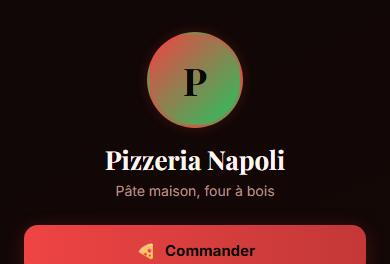
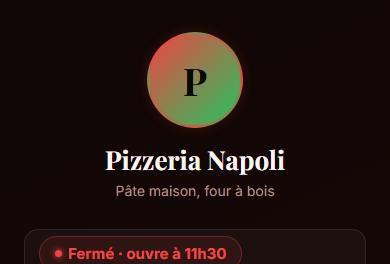
v297 — Horaires en bandeau « Ouvert · ferme à 23h » ; les commerces de nuit ne s'affichent plus « Fermé » en plein service
- Bug en ligne corrigé : une plage qui traverse minuit (« 18h - 02h »,
  « 11h - 00h ») était JETÉE par parseHourRanges. Un bar ouvert le soir
  s'affichait « Fermé » toute la soirée ; un kebab « 11h - 00h », toute la
  journée. La fin passe au lendemain (+24 h), la nuit d'hier se prolonge ce
  matin (« ouvert, ferme à 2h » à 1 h), « ferme à minuit » au lieu de « 0h ».
  Six cas ajoutés (types.test), l'ancien test qui figeait la règle réécrit.
- Bloc Horaires : réglage « Affichage » → « Bandeau compact » : le statut en
  grand, le tableau replié dessous (<details> natif, clavier, sans JS).
  Mêmes horaires que le tableau : une seule saisie, rien qui diverge.
- Les 4 modèles fast-food posent ce bandeau sous le nom du commerce
  (vignettes /examples régénérées). e2e/horairesEnBandeau.spec.ts.

Changed region(s): [[0.0615, 0.8485, 0.9538, 1.0]]

diff --git a/apps/web/src/app/dashboard/builder/shared-renderer/blocks/opening_hours/index.tsx b/apps/web/src/app/dashboard/builder/shared-renderer/blocks/opening_hours/index.tsx
@@ -19,7 +19,7 @@ import { sz, editorCtx, publicCtx, type UnifiedCtx, type EditorAdapterProps, typ
 
 /** Le badge « Ouvert / Fermé ». L'heure ne se lit qu'APRES le montage : le
  *  serveur rend la page puis la met en cache, son heure serait fausse. */
-function Badge({ u, c }: { u: UnifiedCtx; c: Record<string, any> }) {
+function Badge({ u, c, grand }: { u: UnifiedCtx; c: Record<string, any>; grand?: boolean }) {
   const [st, setSt] = useState<ReturnType<typeof openStatus>>(null)
   const [ailleurs, setAilleurs] = useState(false)
   const fuseau = fuseauDuBloc(c)
@@ -36,14 +36,14 @@ function Badge({ u, c }: { u: UnifiedCtx; c: Record<string, any> }) {
   }, [c.mon_fri, c.saturday, c.sunday, c.mon, c.tue, c.wed, c.thu, c.fri, c.sat, c.sun, c.mode, fuseau])
   if (!st) return null
   return (
-    <span style={{ display: "inline-flex", alignItems: "center", gap: sz(u, 6), background: `${st.color}18`, border: `1px solid ${u.lisible(st.color, 3)}55`, color: u.lisible(st.color), borderRadius: 20, padding: `${sz(u, 4)}px ${sz(u, 12)}px`, fontSize: sz(u, 12), fontWeight: 700, fontFamily: u.FONT_B }}>
+    <span data-statut-ouverture={st.open ? "ouvert" : "ferme"} style={{ display: "inline-flex", alignItems: "center", gap: sz(u, 6), background: `${st.color}18`, border: `1px solid ${u.lisible(st.color, 3)}55`, color: u.lisible(st.color), borderRadius: 20, padding: `${sz(u, grand ? 7 : 4)}px ${sz(u, grand ? 15 : 12)}px`, fontSize: sz(u, grand ? 15 : 12), fontWeight: 700, fontFamily: u.FONT_B }}>
       <span style={{ width: sz(u, 7), height: sz(u, 7), borderRadius: "50%", background: u.lisible(st.color, 3), boxShadow: `0 0 6px ${st.color}` }} />{st.label}
       {ailleurs && <span style={{ fontWeight: 500, opacity: 0.85 }}>· {mentionFuseau(fuseau)}</span>}
     </span>
   )
 }
 
-function Vue({ u, c }: { u: UnifiedCtx; c: Record<string, any> }) {
+function Vue({ u, c, sansEntete }: { u: UnifiedCtx; c: Record<string, any>; sansEntete?: boolean }) {
   const h = horaires(c)!
   // -1 tant que l'heure n'est pas connue : le serveur et le navigateur rendent
   // alors le meme HTML (pas de remplacement complet a l'hydratation).
@@ -64,11 +64,13 @@ function Vue({ u, c }: { u: UnifiedCtx; c: Record<string, any> }) {
     </div>
   )
   return (
-    <div style={{ padding: `${sz(u, 6)}px ${sz(u, 24)}px ${sz(u, 16)}px`, fontFamily: u.FONT_B }}>
-      <div style={{ display: "flex", alignItems: "center", justifyContent: "space-between", gap: sz(u, 10), margin: `0 0 ${sz(u, 10)}px`, flexWrap: "wrap" }}>
-        {h.titre ? <h2 style={{ color: u.MUTED, fontSize: sz(u, 11), textTransform: "uppercase", letterSpacing: 2, margin: 0, fontFamily: u.FONT_B }}>{h.titre}</h2> : <span />}
-        <Badge u={u} c={c} />
-      </div>
+    <div style={{ padding: sansEntete ? `${sz(u, 10)}px 0 0` : `${sz(u, 6)}px ${sz(u, 24)}px ${sz(u, 16)}px`, fontFamily: u.FONT_B }}>
+      {!sansEntete && (
+        <div style={{ display: "flex", alignItems: "center", justifyContent: "space-between", gap: sz(u, 10), margin: `0 0 ${sz(u, 10)}px`, flexWrap: "wrap" }}>
+          {h.titre ? <h2 style={{ color: u.MUTED, fontSize: sz(u, 11), textTransform: "uppercase", letterSpacing: 2, margin: 0, fontFamily: u.FONT_B }}>{h.titre}</h2> : <span />}
+          <Badge u={u} c={c} />
+        </div>
+      )}
       {exception && (
         <div style={{ display: "flex", alignItems: "center", gap: sz(u, 8), background: "rgba(251,191,36,0.08)", border: "1px solid rgba(251,191,36,0.3)", borderRadius: 11, padding: `${sz(u, 10)}px ${sz(u, 13)}px`, marginBottom: sz(u, 10) }}>
           <span style={{ fontSize: sz(u, 16), flexShrink: 0 }}>📅</span>
@@ -95,12 +97,34 @@ function Vue({ u, c }: { u: UnifiedCtx; c: Record<string, any> }) {
   )
 }
 
+/**
+ * Le bandeau compact (lot fast-food 2, 19 nov.) : le statut en GRAND, en haut de
+ * page, et le tableau replié dessous. Les MÊMES horaires que le tableau — une
+ * seule saisie, rien qui puisse diverger. `<details>` natif : il se déplie au
+ * clavier et avant même que le JavaScript n'arrive.
+ */
+function Bandeau({ u, c }: { u: UnifiedCtx; c: Record<string, any> }) {
+  return (
+    <div style={{ padding: `${sz(u, 10)}px ${sz(u, 24)}px ${sz(u, 12)}px`, fontFamily: u.FONT_B }}>
+      <details data-horaires-bandeau="" style={{ background: u.FILL, border: `1px solid ${u.LINE}`, borderRadius: 14, padding: `${sz(u, 6)}px ${sz(u, 14)}px` }}>
+        <summary style={{ display: "flex", alignItems: "center", justifyContent: "space-between", gap: sz(u, 10), minHeight: 44, cursor: "pointer", listStyle: "none", flexWrap: "wrap" }}>
+          <Badge u={u} c={c} grand />
+          <span style={{ color: u.MUTED, fontSize: sz(u, 13), fontWeight: 600 }}>{horaires(c)?.titre || "Horaires de la semaine"} ▾</span>
+        </summary>
+        <Vue u={u} c={c} sansEntete />
+      </details>
+    </div>
+  )
+}
+const enBandeau = (c: Record<string, any>) => String(c.affichage || "") === "Bandeau compact"
+
 export function EditorOpeningHours({ content, ctx }: EditorAdapterProps) {
   const u = editorCtx(ctx)
   if (!horaires(content)) return <div style={{ padding: "10px 16px" }}><BlockEmptyState icon="🕐" label="Saisissez vos horaires" sub={HIDDEN_WHEN_EMPTY_NOTE} muted={u.MUTED} /></div>
-  return <Vue u={u} c={content} />
+  return enBandeau(content) ? <Bandeau u={u} c={content} /> : <Vue u={u} c={content} />
 }
 export function PublicOpeningHours({ content, ctx }: PublicAdapterProps) {
   if (!horaires(content)) return null
-  return <Vue u={publicCtx(ctx)} c={content} />
+  const u = publicCtx(ctx)
+  return enBandeau(content) ? <Bandeau u={u} c={content} /> : <Vue u={u} c={content} />
 }

diff --git a/apps/web/src/app/dashboard/builder/page-templates.ts b/apps/web/src/app/dashboard/builder/page-templates.ts
@@ -103,6 +103,14 @@ const CARTE_PIZZA = carte([
   { nom: "Limonade artisanale", prix: "3,50 €", cat: "Boissons" },
 ])
 
+// Horaires des modèles fast-food : en BANDEAU sous le nom (lot fast-food 2) —
+// « Ouvert · ferme à 23:00 » est la première chose qu'on cherche en scannant.
+const bandeau = (h: Record<string, string>) => ({ title: "Horaires de la semaine", affichage: "Bandeau compact", ...h })
+const HORAIRES_RESTO_FASTFOOD = bandeau({ mon_fri: "11h30 - 23h", saturday: "11h30 - 00h", sunday: "18h - 23h" })
+const HORAIRES_RESTO_KEBAB = bandeau({ mon_fri: "11h - 00h", saturday: "11h - 01h", sunday: "12h - 00h" })
+const HORAIRES_RESTO_TACOS = bandeau({ mon_fri: "11h30 - 23h30", saturday: "11h30 - 01h", sunday: "18h - 23h30" })
+const HORAIRES_RESTO_PIZZA = bandeau({ mon_fri: "11h30 - 14h, 18h30 - 22h30", saturday: "18h30 - 23h", sunday: "18h30 - 22h30" })
+
 const PAGE_TEMPLATES_ECRITS: PageTemplate[] = [
   // ── Restauration ────────────────────────────────────────────────────────────
   {
@@ -131,10 +139,10 @@ const PAGE_TEMPLATES_ECRITS: PageTemplate[] = [
     theme: T.neon,
     blocks: [
       { type: "profile", content: { name: "Big Bite", tagline: "Burgers smashés & frites maison", badge: "" } },
+      { type: "opening_hours", content: HORAIRES_RESTO_FASTFOOD },
       { type: "announcement", content: { type: "Promo", title: "Menu du midi -20%", message: "Du lundi au vendredi, de 11h30 à 14h.", style: "Détaillé" } },
       { type: "cta_button", content: { label: "Commander en ligne", url: "#", style: "gold", icon: "🛵", full_width: "yes" } },
       { type: "carte_illustree", content: CARTE_BURGER },
-      { type: "opening_hours", content: { title: "Horaires", mon_fri: "11h30 - 23h", saturday: "11h30 - 00h", sunday: "18h - 23h" } },
       { type: "google_maps_embed", content: { label: "Big Bite", address: "", zoom: "16" } },
       { type: "social_links", content: social({ tiktok: "https://tiktok.com" }) },
     ],
@@ -146,9 +154,9 @@ const PAGE_TEMPLATES_ECRITS: PageTemplate[] = [
     theme: T.braise,
     blocks: [
       { type: "profile", content: { name: "Le Bosphore", tagline: "Kebab, assiettes & tacos · fait maison", badge: "" } },
+      { type: "opening_hours", content: HORAIRES_RESTO_KEBAB },
       { type: "cta_button", content: { label: "Commander à emporter", url: "", style: "gold", icon: "🥙", full_width: "yes" } },
       { type: "carte_illustree", content: CARTE_KEBAB },
-      { type: "opening_hours", content: { title: "Horaires", mon_fri: "11h - 00h", saturday: "11h - 01h", sunday: "12h - 00h" } },
       { type: "google_maps_embed", content: { label: "Le Bosphore", address: "", zoom: "16" } },
       { type: "social_links", content: social({ tiktok: "https://tiktok.com" }) },
     ],
@@ -159,9 +167,9 @@ const PAGE_TEMPLATES_ECRITS: PageTemplate[] = [
     theme: T.mexico,
     blocks: [
       { type: "profile", content: { name: "Tacos Factory", tagline: "Tacos français, wraps & bowls", badge: "" } },
+      { type: "opening_hours", content: HORAIRES_RESTO_TACOS },
       { type: "announcement", content: { type: "Promo", title: "Menu étudiant", message: "Tacos M + boisson à prix doux, sur présentation de la carte.", style: "Compact" } },
       { type: "carte_illustree", content: CARTE_TACOS },
-      { type: "opening_hours", content: { title: "Horaires", mon_fri: "11h30 - 23h30", saturday: "11h30 - 01h", sunday: "18h - 23h30" } },
       { type: "google_maps_embed", content: { label: "Tacos Factory", address: "", zoom: "16" } },
       { type: "social_links", content: social({ tiktok: "https://tiktok.com" }) },
     ],
@@ -172,9 +180,9 @@ const PAGE_TEMPLATES_ECRITS: PageTemplate[] = [
     theme: T.tomate,
     blocks: [
       { type: "profile", content: { name: "Pizzeria Napoli", tagline: "Pâte maison, four à bois", badge: "" } },
+      { type: "opening_hours", content: HORAIRES_RESTO_PIZZA },
       { type: "cta_button", content: { label: "Commander", url: "", style: "gold", icon: "🍕", full_width: "yes" } },
       { type: "carte_illustree", content: CARTE_PIZZA },
-      { type: "opening_hours", content: { title: "Horaires", mon_fri: "11h30 - 14h, 18h30 - 22h30", saturday: "18h30 - 23h", sunday: "18h30 - 22h30" } },
       { type: "google_maps_embed", content: { label: "Pizzeria Napoli", address: "", zoom: "16" } },
       { type: "social_links", content: social({ facebook: "https://facebook.com" }) },
     ],

diff --git a/apps/web/src/app/dashboard/builder/types.ts b/apps/web/src/app/dashboard/builder/types.ts
@@ -731,7 +731,10 @@ function parseTime(raw: string): number | null {
 }
 
 // Parse un champ jour ("9h - 18h", "9h-12h, 14h-18h", "Ferme") en plages {start,end} (minutes).
-// Gere plusieurs plages (coupure) et separateurs -,–,à,to ; end<=start (nuit) -> +24h ignore ici.
+// Gere plusieurs plages (coupure) et separateurs -,–,à,to.
+// Une plage qui TRAVERSE MINUIT (« 18h - 02h », « 11h - 00h ») finit le lendemain :
+// sa fin vaut fin + 24 h. Elle était jetée jusqu'au 19 nov. — un bar ouvert
+// « 18h - 02h » s'affichait « Fermé » toute la soirée, en plein service.
 export function parseHourRanges(text?: string): { start: number; end: number }[] {
   const s = (text || "").trim()
   if (!s || /(ferm|closed|repos)/i.test(s)) return []
@@ -740,8 +743,8 @@ export function parseHourRanges(text?: string): { start: number; end: number }[]
     const seg = part.split(/\s*(?:-|–|—|à|to)\s*/i)
     if (seg.length < 2) continue
     const start = parseTime(seg[0]), end = parseTime(seg[1])
-    if (start === null || end === null || end <= start) continue
-    ranges.push({ start, end })
+    if (start === null || end === null || end === start) continue
+    ranges.push({ start, end: end < start ? end + 1440 : end })
   }
   return ranges
 }
@@ -784,15 +787,22 @@ export function openStatus(
   const conges = etatDesConges(c.exception, dateChezLeCommerce(now, tz))
   if (conges.etat === "pendant") return { open: false, label: phrasePendantConges(conges), color: "#FBBF24" }
   const day = ici.jour // 0=dim, 6=sam
-  const field = dayField(c, day)
-  if (!field || !field.trim()) return null // pas d'info pour aujourd'hui -> pas de badge
+  const field = dayField(c, day) ?? ""
+  // Pas d'info pour aujourd'hui -> pas de badge… sauf si la nuit d'hier court encore.
+  const veilleDeNuit = parseHourRanges(dayField(c, (day + 6) % 7)).some(r => r.end > 1440)
+  if (!field.trim() && !veilleDeNuit) return null
   const ranges = parseHourRanges(field)
   const mins = ici.minutes
 
-  const current = ranges.find(r => mins >= r.start && mins < r.end)
+  // La nuit d'HIER se prolonge ce matin : « 18h - 02h » le mardi ouvre encore
+  // le mercredi de 0 h à 2 h. Ces plages-là se comptent avant celles du jour.
+  const prolongees = parseHourRanges(dayField(c, (day + 6) % 7))
+    .filter(r => r.end > 1440).map(r => ({ start: 0, end: r.end - 1440 }))
+  const heure = (m: number) => (m % 1440 === 0 ? "minuit" : fmtMinutes(m % 1440))
+  const current = [...prolongees, ...ranges].find(r => mins >= r.start && mins < r.end)
   if (current) {
-    if (current.end - mins <= 30) return { open: true, label: `Ferme bientôt · à ${fmtMinutes(current.end)}`, color: "#FBBF24" }
-    return { open: true, label: `Ouvert · ferme à ${fmtMinutes(current.end)}`, color: "#39FF8F" }
+    if (current.end - mins <= 30) return { open: true, label: `Ferme bientôt · à ${heure(current.end)}`, color: "#FBBF24" }
+    return { open: true, label: `Ouvert · ferme à ${heure(current.end)}`, color: "#39FF8F" }
   }
   // Fermé : prochaine ouverture aujourd'hui ?
   const next = ranges.filter(r => r.start > mins).sort((a, b) => a.start - b.start)[0]

diff --git a/apps/web/src/app/dashboard/builder/types.test.ts b/apps/web/src/app/dashboard/builder/types.test.ts
@@ -821,8 +821,42 @@ describe("parseHourRanges", () => {
     expect(parseHourRanges("")).toEqual([])
     expect(parseHourRanges(undefined)).toEqual([])
   })
-  it("plage invalide (fin <= debut) ignoree", () => {
-    expect(parseHourRanges("18h - 9h")).toEqual([])
+  it("plage de nuit : la fin passe au lendemain ; une plage vide est ignorée", () => {
+    // Une plage qui traverse minuit finit le lendemain (19 nov. : elle était
+    // jetée, et un bar « 18h - 02h » s'affichait « Fermé » en plein service).
+    expect(parseHourRanges("18h - 9h")).toEqual([{ start: 1080, end: 1440 + 540 }])
+    expect(parseHourRanges("11h - 00h")).toEqual([{ start: 660, end: 1440 }])
+    expect(parseHourRanges("9h - 9h")).toEqual([])
+  })
+})
+
+describe("openStatus — les commerces de nuit (19 nov.)", () => {
+  // 2026-07-07 est un mardi, en UTC. Un bar « 18h - 02h » tous les jours, un
+  // kebab « 11h - 00h » en semaine : relevé au navigateur, les deux s'affichaient
+  // « Fermé » pendant tout leur service.
+  const bar = { mon_fri: "18h - 02h", saturday: "18h - 03h", sunday: "Fermé" }
+  const kebab = { mon_fri: "11h - 00h", saturday: "11h - 01h", sunday: "12h - 00h" }
+  const a = (j: number, h: number, mn = 0) => new Date(Date.UTC(2026, 6, j, h, mn))
+
+  it("en plein service du soir : ouvert, ferme à 2h", () => {
+    expect(openStatus(bar, a(7, 21), "UTC")?.label).toBe("Ouvert · ferme à 2h")
+  })
+  it("après minuit, au titre de la veille : encore ouvert", () => {
+    expect(openStatus(bar, a(8, 1), "UTC")?.label).toBe("Ouvert · ferme à 2h")
+    expect(openStatus(bar, a(8, 1, 40), "UTC")?.label).toBe("Ferme bientôt · à 2h")
+  })
+  it("la nuit finie, il annonce la prochaine ouverture", () => {
+    expect(openStatus(bar, a(8, 3), "UTC")?.label).toBe("Fermé · ouvre à 18h")
+  })
+  it("le lundi à 1 h, la nuit du DIMANCHE (fermé) ne prolonge rien", () => {
+    expect(openStatus(bar, a(6, 1), "UTC")?.label).toBe("Fermé · ouvre à 18h")
+  })
+  it("le dimanche à 2 h, la nuit du samedi (« 18h - 03h ») court encore — sans horaire du jour", () => {
+    expect(openStatus({ ...bar, sunday: "" }, a(5, 2), "UTC")?.label).toBe("Ouvert · ferme à 3h")
+  })
+  it("fermeture à minuit : « ferme à minuit », et fermé passé minuit", () => {
+    expect(openStatus(kebab, a(7, 20), "UTC")?.label).toBe("Ouvert · ferme à minuit")
+    expect(openStatus(kebab, a(8, 0, 40), "UTC")?.label).toBe("Fermé · ouvre à 11h")
   })
 })
 

diff --git a/e2e/horairesEnBandeau.spec.ts b/e2e/horairesEnBandeau.spec.ts
@@ -1,0 +1,30 @@
+import { test, expect } from "@playwright/test"
+
+// Lot fast-food 2 (19 nov.) : les horaires en BANDEAU compact, sous le nom du
+// commerce — « Ouvert · ferme à 23:00 » d'un coup d'œil, le détail replié.
+// Mesuré sur la vraie page d'exemple du modèle « Kebab & Snack ».
+
+test("le statut d'ouverture se lit en haut, et le détail se déplie", async ({ page }) => {
+  await page.goto("/examples/resto_kebab", { waitUntil: "networkidle", timeout: 120_000 })
+  const bandeau = page.locator("[data-horaires-bandeau]")
+  await expect(bandeau).toBeVisible()
+  // Le statut est calculé à l'heure du commerce, après le montage.
+  await expect(bandeau.locator("[data-statut-ouverture]")).toHaveText(/^(Ouvert|Ferme bientôt|Fermé)/)
+  // Il vient AVANT la carte : c'est la première chose qu'on cherche.
+  const yBandeau = (await bandeau.boundingBox())!.y
+  const yCarte = (await page.locator("[data-carte-illustree]").boundingBox())!.y
+  expect(yBandeau).toBeLessThan(yCarte)
+
+  // Replié par défaut ; il se déplie au toucher…
+  await expect(bandeau).not.toHaveAttribute("open", "")
+  const resume = bandeau.locator("summary")
+  expect((await resume.boundingBox())!.height, "cible au doigt").toBeGreaterThanOrEqual(44)
+  await resume.click()
+  await expect(bandeau).toHaveAttribute("open", "")
+  await expect(bandeau.getByText("Lundi — Vendredi")).toBeVisible()
+  // …et au clavier.
+  await resume.click()
+  await resume.focus()
+  await page.keyboard.press("Enter")
+  await expect(bandeau).toHaveAttribute("open", "")
+})

diff --git a/apps/web/src/app/dashboard/builder/blockDefs.ts b/apps/web/src/app/dashboard/builder/blockDefs.ts
@@ -419,6 +419,9 @@ export const BLOCK_DEFS: Record<string, BlockDef> = {
     defaultContent: { title: "Horaires", mode: "Simple (Lun-Ven / Sam / Dim)" },
     fields: [
       { key: "title", label: "Titre", type: "text", placeholder: "Nos horaires" },
+      // Lot fast-food 2 (19 nov.) : « Bandeau compact » = le statut en grand en haut
+      // de page, le tableau replié dessous. Mêmes horaires, une seule saisie.
+      { key: "affichage", label: "Affichage", type: "select", options: ["Tableau complet", "Bandeau compact"], role: "miseEnPage", hint: "« Bandeau compact » : « Ouvert · ferme à 23:00 » en grand, à poser en haut de page ; le détail se déplie." },
       { key: "mode", label: "Niveau de détail", type: "select", options: ["Simple (Lun-Ven / Sam / Dim)", "Jour par jour"], hint: "« Jour par jour » : un horaire différent pour chaque jour + coupure déjeuner" },
       // Mode simple (hérité) — utilisé si « Simple » est choisi
       { key: "mon_fri", label: "Lundi — Vendredi", type: "text", placeholder: "9h - 18h", showIf: { key: "mode", equals: "Simple (Lun-Ven / Sam / Dim)" } },
